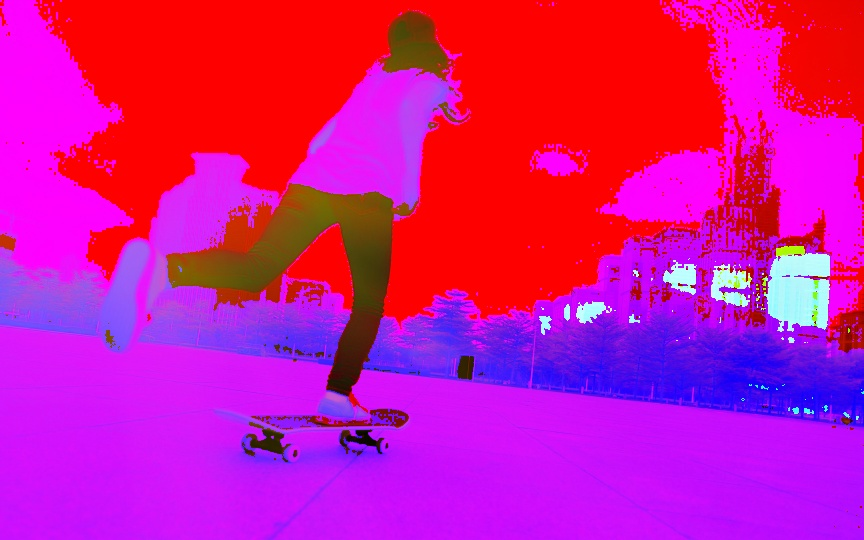
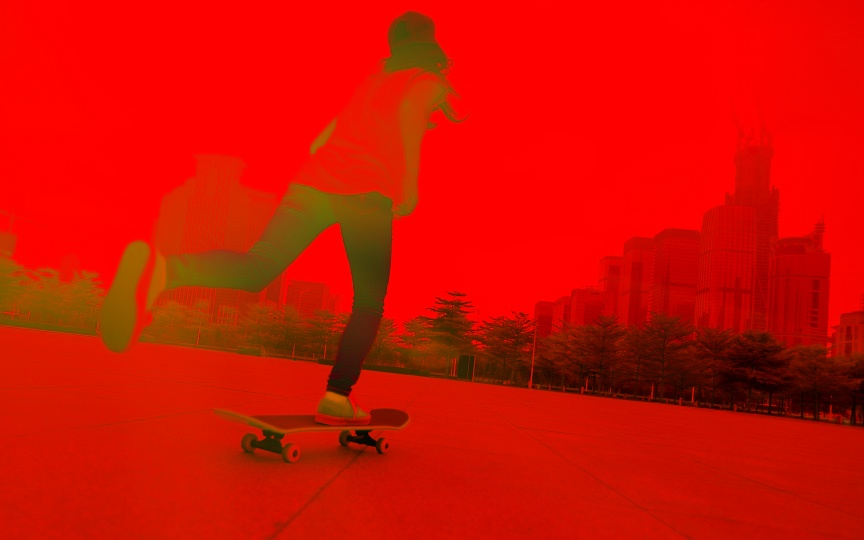
Program1: RGB-YIQ-RGB

diff --git a/color.py b/color.py
@@ -7,56 +7,81 @@ import numpy as np
 import cv2 as cv
 
 
+def check_8bytes_bound(x):
+    x = np.rint(x)
+
+    if x > 255:
+        return 255
+    elif x < 0:
+        return 0
+
+    return x
+
+
 def calculate_rgb_to_yiq(r, g, b):
     y = 0.299 * r + 0.587 * g + 0.114 * b
     i = 0.596 * r - 0.274 * g - 0.322 * b
     q = 0.211 * r - 0.523 * g + 0.312 * b
-    return np.trunc(y), np.trunc(i), np.trunc(q)
+
+    y = check_8bytes_bound(y)
+    i = check_8bytes_bound(i)
+    q = check_8bytes_bound(q)
+
+    return y, i, q
 
 
 def rgb_to_yiq(image):
-    # TODO: Handle R, G and B limits during conversion
-
     # Get RGB components from the image
     b, g, r = cv.split(image)
 
     # Create an empty matrix with the dimension of the input image
-    yiq_img = np.empty_like(image)
+    yiq = np.empty_like(image)
 
-    # Calculate YIQ for the whole matrix
-    y, i, q = calculate_rgb_to_yiq(r, g, b)
+    width = image.shape[0]
+    height = image.shape[1]
 
-    # Set YIQ in the output image
-    # R, G and B, respectively
-    yiq_img[:, :, 2] = y
-    yiq_img[:, :, 1] = i
-    yiq_img[:, :, 0] = q
+    # Calculate YIQ from the input image, pixel by pixel
 
-    return yiq_img
+    for w in range(width):
+        for h in range(height):
+            y, i, q = calculate_rgb_to_yiq(r[w][h], g[w][h], b[w][h])
+            yiq[w][h][2] = y
+            yiq[w][h][1] = i
+            yiq[w][h][0] = q
+
+    return yiq
 
 
 def calculate_yiq_to_rgb(y, i, q):
     r = y + 0.956 * i + 0.621 * q
     g = y - 0.272 * i - 0.647 * q
     b = y - 1.106 * i + 1.703 * q
-    return np.trunc(r), np.trunc(g), np.trunc(b)
+
+    r = check_8bytes_bound(r)
+    g = check_8bytes_bound(g)
+    b = check_8bytes_bound(b)
+
+    return r, g, b
 
 
 def yiq_to_rgb(image):
-    # TODO: Handle R, G and B limits during conversion
-
     # Get YIQ components from the image
     q, i, y = cv.split(image)
 
     # Create an empty matrix with the dimension of the input image
-    rgb_img = np.empty_like(image)
+    rgb = np.empty_like(image)
 
-    # Calculate YIQ for the whole matrix
-    r, g, b = calculate_rgb_to_yiq(y, i, q)
+    width = image.shape[0]
+    height = image.shape[1]
 
-    # Set RGB in the output image
-    rgb_img[:, :, 2] = r
-    rgb_img[:, :, 1] = g
-    rgb_img[:, :, 0] = b
+    # Calculate RGB from the input image, pixel by pixel
 
-    return rgb_img
+    for w in range(width):
+        for h in range(height):
+            r, g, b = calculate_yiq_to_rgb(y[w][h], i[w][h], q[w][h])
+
+            rgb[w][h][2] = r
+            rgb[w][h][1] = g
+            rgb[w][h][0] = b
+
+    return rgb

diff --git a/program1.py b/program1.py
@@ -4,22 +4,20 @@ import cv2 as cv
 import color
 import util
 
+# An image is a matrix with the dimensions [w][h][3]. 3 for R, G and B
 
-# TODO: Fix conversions. YIQ to RGB doesn't show the original image.
+name = "32bits.png"
+original = util.read_image(name)
 
-img_name = "skate.jpg"
-original_img = util.read_image(img_name)
+# RGB to YIQ
+yiq = color.rgb_to_yiq(original)
+cv.imshow('YIQ', yiq)
+util.write_image("yiq-" + name, yiq)
 
-# RGB-YIQ
-yiq_img = color.rgb_to_yiq(original_img)
-cv.imshow(img_name + ' - YIQ', yiq_img)
-util.write_image("yiq-" + img_name, yiq_img)
-
-# YIQ-RGB
-rgb_img = color.yiq_to_rgb(yiq_img)
-cv.imshow(img_name + ' - RGB', rgb_img)
-util.write_image("rgb-" + img_name, rgb_img)
+# YIQ to RGB
+rgb = color.yiq_to_rgb(yiq)
+cv.imshow('RGB', rgb)
+util.write_image("rgb-" + name, rgb)
 
 cv.waitKey(0)
 cv.destroyAllWindows()
-
